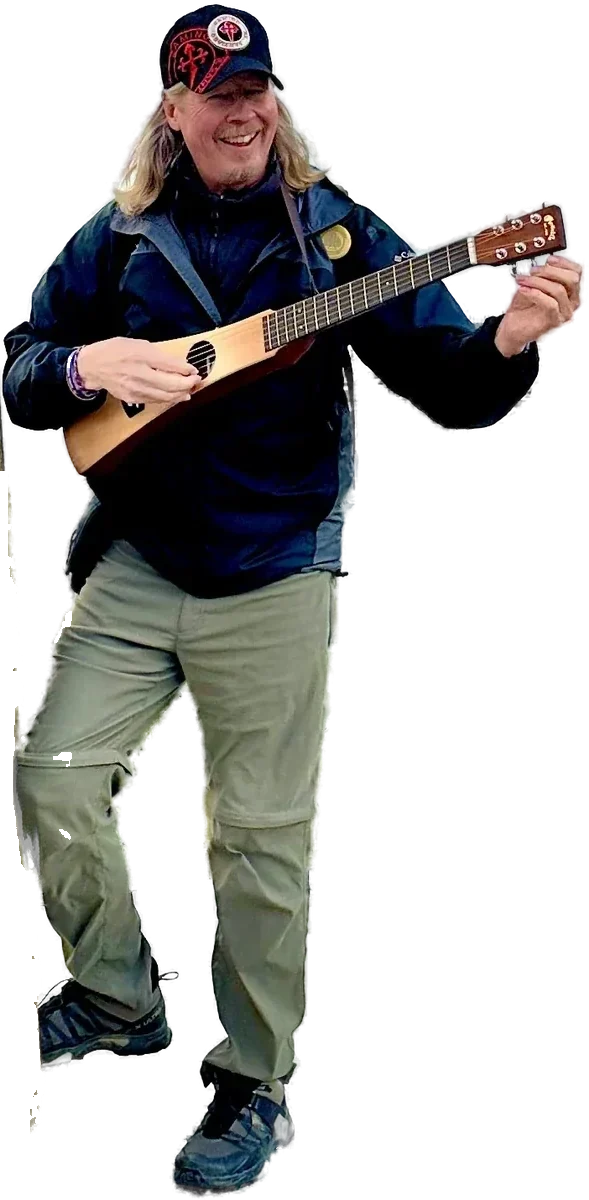
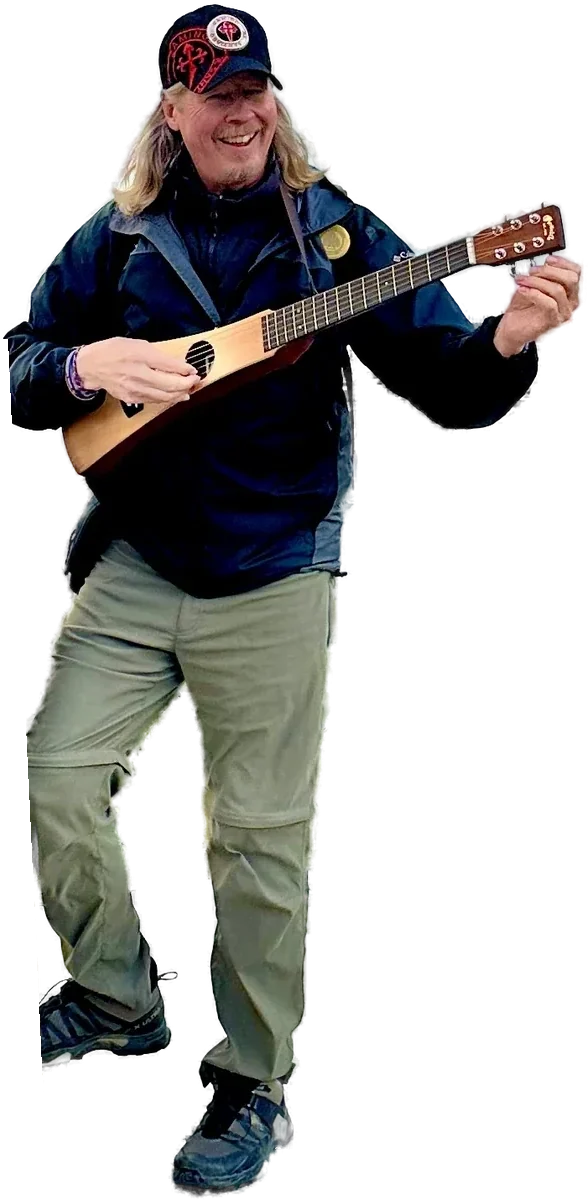
Walk: clean cutout along the stone edge (foot and leg whole); slower side-step; cover and postcards keep their proportions
Claude-Session: https://claude.ai/code/session_01VdFeRf8PyCiKRmonwYGv5a

diff --git a/index.html b/index.html
@@ -117,11 +117,11 @@
   .door .go svg { width: 26px; height: 12px; }
 
   /* The walk: Dave stays put in the middle of the road while the five paths pass him, left then right. */
-  .walk { position: relative; padding-block: 4vh 2vh; }
+  .walk { position: relative; padding-block: 4vh 8vh; }
   .walk .wrap { position: relative; }
   .walker { position: sticky; top: 20vh; height: 62vh; pointer-events: none; z-index: 1; margin-bottom: -62vh; }
   .walker .fig { width: 100%; height: 100%; display: flex; justify-content: center; align-items: flex-end;
-    transition: transform 1.1s cubic-bezier(.2,.7,.2,1); }
+    transition: transform 2.8s cubic-bezier(.45,0,.2,1); }
   .walk[data-side="r"] .fig { transform: translateX(31%); }
   .walk[data-side="l"] .fig { transform: translateX(-31%); }
   .walker img { height: 100%; width: auto; max-width: 26%; object-fit: contain; object-position: bottom; filter: drop-shadow(0 26px 40px rgba(0,0,0,0.6)); }
@@ -131,16 +131,16 @@
   .beat.r { justify-content: flex-end; }
   .beat .story p, .beat .facts, .beat .note { text-shadow: 0 2px 24px rgba(11,6,69,0.95); }
   .beat .story h2 { text-shadow: 0 2px 30px rgba(11,6,69,0.95); }
-  .cover { width: 200px; margin: 0 0 24px; border-radius: 4px; box-shadow: 0 30px 60px rgba(0,0,0,0.7), 0 0 0 1px var(--stone-edge); }
+  .cover { width: 200px; height: auto; margin: 0 0 24px; border-radius: 4px; box-shadow: 0 30px 60px rgba(0,0,0,0.7), 0 0 0 1px var(--stone-edge); }
   .postcard { position: relative; margin: 0 0 24px; }
-  .postcard img { width: 100%; aspect-ratio: 16 / 9; object-fit: cover; border-radius: 6px 32px 6px 32px; box-shadow: 0 30px 60px rgba(0,0,0,0.6); }
+  .postcard img { width: 100%; height: auto; aspect-ratio: 16 / 9; object-fit: cover; border-radius: 6px 32px 6px 32px; box-shadow: 0 30px 60px rgba(0,0,0,0.6); }
   .postcard .cap { position: absolute; left: 16px; bottom: 12px; font-size: 11px; letter-spacing: 0.24em; text-transform: uppercase; color: var(--bone); font-weight: 600; text-shadow: 0 2px 16px rgba(0,0,0,0.9); }
   .facts { list-style: none; padding: 0; margin: 26px 0 0; display: grid; gap: 8px; font-size: 15.5px; color: var(--bone-dim); }
   .facts li { display: grid; grid-template-columns: 14px 1fr; gap: 12px; align-items: baseline; }
   .facts li::before { content: ""; width: 14px; height: 2px; background: var(--terracotta); transform: translateY(-4px); }
 
   /* Interludes: a photo and almost no words */
-  .interlude { position: relative; height: 64vh; min-height: 380px; overflow: hidden; margin-block: 4vh; }
+  .interlude { position: relative; z-index: 3; height: 64vh; min-height: 380px; overflow: hidden; margin-block: 4vh; }
   .interlude img { width: 100%; height: 100%; object-fit: cover; object-position: center 45%; transform: scale(1.1); }
   .interlude::before { content: ""; position: absolute; inset: 0; z-index: 1;
     background: linear-gradient(180deg, var(--night) 0%, rgba(11,6,69,0.25) 30%, rgba(11,6,69,0.25) 70%, var(--night) 100%); mix-blend-mode: multiply; }
@@ -163,7 +163,7 @@
   .js .rv.pre { opacity: 0.001; transform: translateY(22px); }
   .js .rv.from-l.pre { transform: translateX(-80px); }
   .js .rv.from-r.pre { transform: translateX(80px); }
-  .js .rv { transition: opacity 1s cubic-bezier(.2,.7,.2,1), transform 1s cubic-bezier(.2,.7,.2,1); }
+  .js .rv { transition: opacity 1.4s cubic-bezier(.2,.7,.2,1), transform 1.4s cubic-bezier(.2,.7,.2,1); }
   @media (prefers-reduced-motion: reduce) {
     html { scroll-behavior: auto; }
     .js .rv, .js .rv.pre { opacity: 1; transform: none; transition: none; }
@@ -265,7 +265,7 @@
 
   <section class="walk" aria-label="The five paths" data-side="r">
     <div class="wrap">
-      <div class="walker" aria-hidden="true"><div class="fig"><img src="assets/walker.webp" alt="" width="589" height="1200"></div></div>
+      <div class="walker" aria-hidden="true"><div class="fig"><img src="assets/walker.webp" alt="" width="588" height="1200"></div></div>
 
       <div class="beat l" id="book">
         <div class="story rv from-l">
